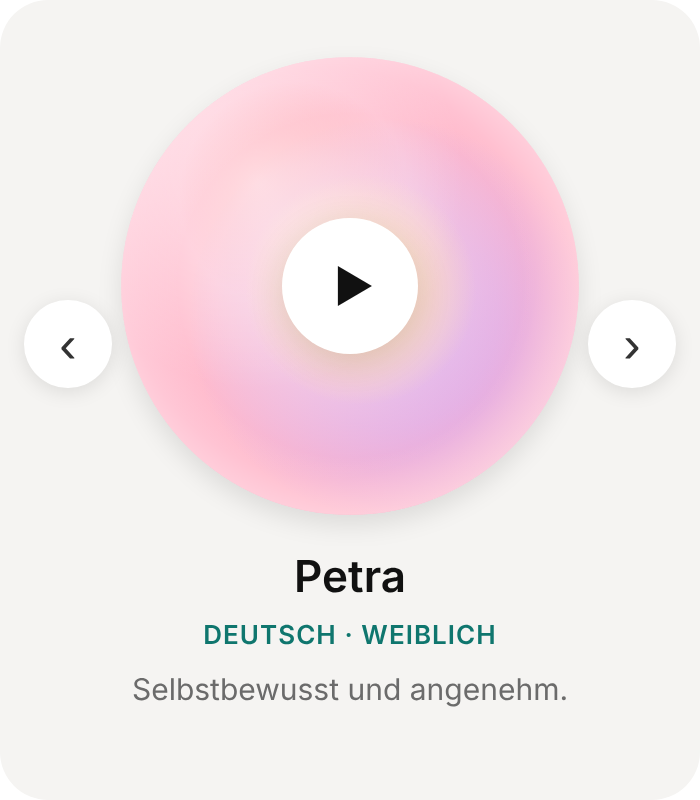
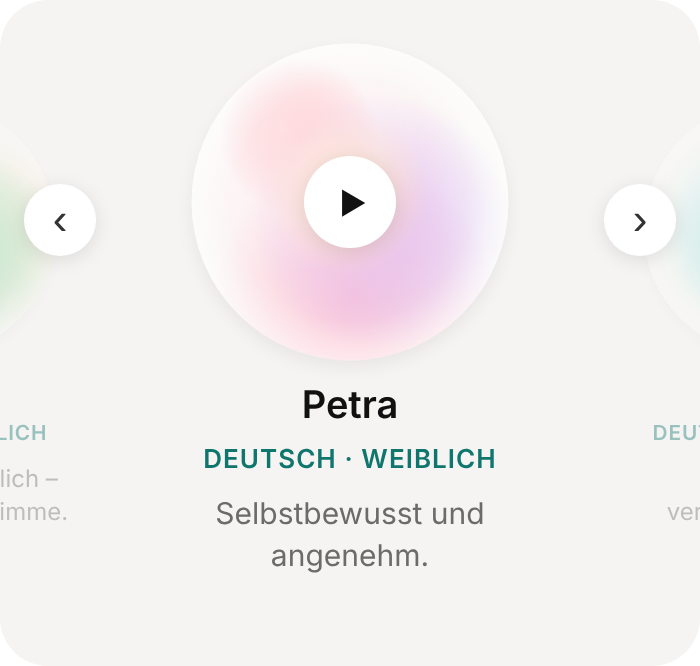
Stimmen-Kugeln kleiner und dezenter
Claude-Session: https://claude.ai/code/session_01NmVgpLyoKZxgaEGKkPjMiu

diff --git a/website/style.css b/website/style.css
@@ -148,33 +148,33 @@ footer a { margin-right: 16px; color: var(--muted); }
 .voices-wrap { position: relative; background: #f5f4f2; border-radius: 24px; padding: 10px 0 18px; overflow: hidden; }
 .voices {
   display: flex; overflow-x: auto; scroll-snap-type: x mandatory; scrollbar-width: none;
-  padding: 18px calc(50% - 130px) 4px; gap: 10px; scroll-behavior: smooth;
+  padding: 16px calc(50% - 100px) 4px; gap: 10px; scroll-behavior: smooth;
 }
 .voices::-webkit-scrollbar { display: none; }
 .voice {
-  flex: 0 0 260px; scroll-snap-align: center; text-align: center;
-  transition: transform .35s ease, opacity .35s ease; opacity: .45; transform: scale(.78);
+  flex: 0 0 200px; scroll-snap-align: center; text-align: center;
+  transition: transform .35s ease, opacity .35s ease; opacity: .4; transform: scale(.8);
 }
 .voice.active { opacity: 1; transform: scale(1); }
 .voice-orb {
-  position: relative; width: 230px; height: 230px; margin: 0 auto 14px; display: block;
+  position: relative; width: 150px; height: 150px; margin: 0 auto 12px; display: block;
   border: 0; padding: 0; background: none; cursor: pointer; border-radius: 50%;
 }
 .voice-orb canvas { position: absolute; inset: -15px; width: calc(100% + 30px); height: calc(100% + 30px); }
 .voice-play {
-  position: absolute; left: 50%; top: 50%; width: 68px; height: 68px; margin: -34px 0 0 -34px;
+  position: absolute; left: 50%; top: 50%; width: 46px; height: 46px; margin: -23px 0 0 -23px;
   border-radius: 50%; background: #fff; color: #111; display: grid; place-items: center;
-  font-size: 22px; padding-left: 4px; box-shadow: 0 4px 18px rgba(0,0,0,.12);
+  font-size: 15px; padding-left: 3px; box-shadow: 0 2px 10px rgba(0,0,0,.1);
   transition: transform .2s, opacity .3s;
 }
 .voice-orb:hover .voice-play { transform: scale(1.06); }
-.voice.playing .voice-play { padding-left: 0; font-size: 18px; letter-spacing: -2px; }
-.voice h3 { margin: 0 0 2px; font-size: 22px; color: #111; font-weight: 600; }
+.voice.playing .voice-play { padding-left: 0; font-size: 13px; letter-spacing: -2px; }
+.voice h3 { margin: 0 0 2px; font-size: 19px; color: #111; font-weight: 600; }
 .voice-tag { margin: 0 0 6px; font-size: 13px; letter-spacing: .04em; text-transform: uppercase; color: var(--teal); font-weight: 600; }
 .voice-desc { margin: 0 auto; max-width: 240px; font-size: 15px; color: #6b6b6b; line-height: 1.45; }
 .voices-nav {
-  position: absolute; top: 150px; z-index: 2; width: 44px; height: 44px; border-radius: 50%;
-  border: 0; background: #fff; box-shadow: 0 2px 10px rgba(0,0,0,.1); font-size: 26px; line-height: 1;
+  position: absolute; top: 92px; z-index: 2; width: 36px; height: 36px; border-radius: 50%;
+  border: 0; background: #fff; box-shadow: 0 2px 10px rgba(0,0,0,.1); font-size: 22px; line-height: 1;
   color: #333; cursor: pointer;
 }
 .voices-nav.prev { left: 12px; } .voices-nav.next { right: 12px; }

diff --git a/website/voices.js b/website/voices.js
@@ -7,7 +7,7 @@
 
   function hex(h) { var n = parseInt(h.slice(1), 16); return [n >> 16, n >> 8 & 255, n & 255]; }
   var S = slides.map(function (el, i) {
-    var cv = el.querySelector('canvas'), dpr = Math.min(window.devicePixelRatio || 1, 2), size = 260;
+    var cv = el.querySelector('canvas'), dpr = Math.min(window.devicePixelRatio || 1, 2), size = 180;
     cv.width = size * dpr; cv.height = size * dpr;
     var b = document.createElement('button'); b.setAttribute('aria-label', (i + 1) + '');
     b.onclick = function () { go(i); }; dots.appendChild(b);
@@ -35,22 +35,22 @@
     var g = s.g, W = s.cv.width, c = W / 2, playing = s.el === current;
     s.lvl += ((playing ? level(t) : 0) - s.lvl) * .2;
     s.e += ((playing ? 1 : 0) - s.e) * .05;
-    var R = W * .44 * (1 + s.lvl * .06), sp = .25 + s.e * .9, tt = t * sp + s.seed;
+    var R = W * .44 * (1 + s.lvl * .035), sp = .18 + s.e * .5, tt = t * sp + s.seed;
     g.clearRect(0, 0, W, W);
 
     // weicher Schatten
     g.save(); g.beginPath(); g.arc(c, c, R, 0, 7);
-    g.shadowColor = 'rgba(0,0,0,' + (.10 + s.lvl * .08) + ')'; g.shadowBlur = W * .05; g.shadowOffsetY = W * .02;
-    g.fillStyle = 'rgb(' + s.cols[0] + ')'; g.fill(); g.restore();
+    g.shadowColor = 'rgba(0,0,0,' + (.06 + s.lvl * .04) + ')'; g.shadowBlur = W * .05; g.shadowOffsetY = W * .02;
+    g.fillStyle = '#fbfaf8'; g.fill(); g.restore();
 
     g.save(); g.beginPath(); g.arc(c, c, R, 0, 7); g.clip();
     // Farbwolken, die durch die Kugel wandern
     for (var k = 0; k < s.cols.length; k++) {
       var a = tt * (0.6 + k * .17) + k * 1.9, rr = R * (.35 + .25 * Math.sin(tt * .7 + k));
       var x = c + Math.cos(a) * rr, y = c + Math.sin(a * 1.13) * rr;
-      var rad = R * (0.75 + .25 * Math.sin(tt + k * 2) + s.lvl * .35);
+      var rad = R * (0.75 + .25 * Math.sin(tt + k * 2) + s.lvl * .2);
       var col = s.cols[k], grd = g.createRadialGradient(x, y, 0, x, y, rad);
-      grd.addColorStop(0, 'rgba(' + col + ',1)'); grd.addColorStop(.55, 'rgba(' + col + ',.55)'); grd.addColorStop(1, 'rgba(' + col + ',0)');
+      grd.addColorStop(0, 'rgba(' + col + ',.75)'); grd.addColorStop(.55, 'rgba(' + col + ',.35)'); grd.addColorStop(1, 'rgba(' + col + ',0)');
       g.fillStyle = grd; g.fillRect(0, 0, W, W);
     }
     // Glanz oben links + Rand-Schimmer
